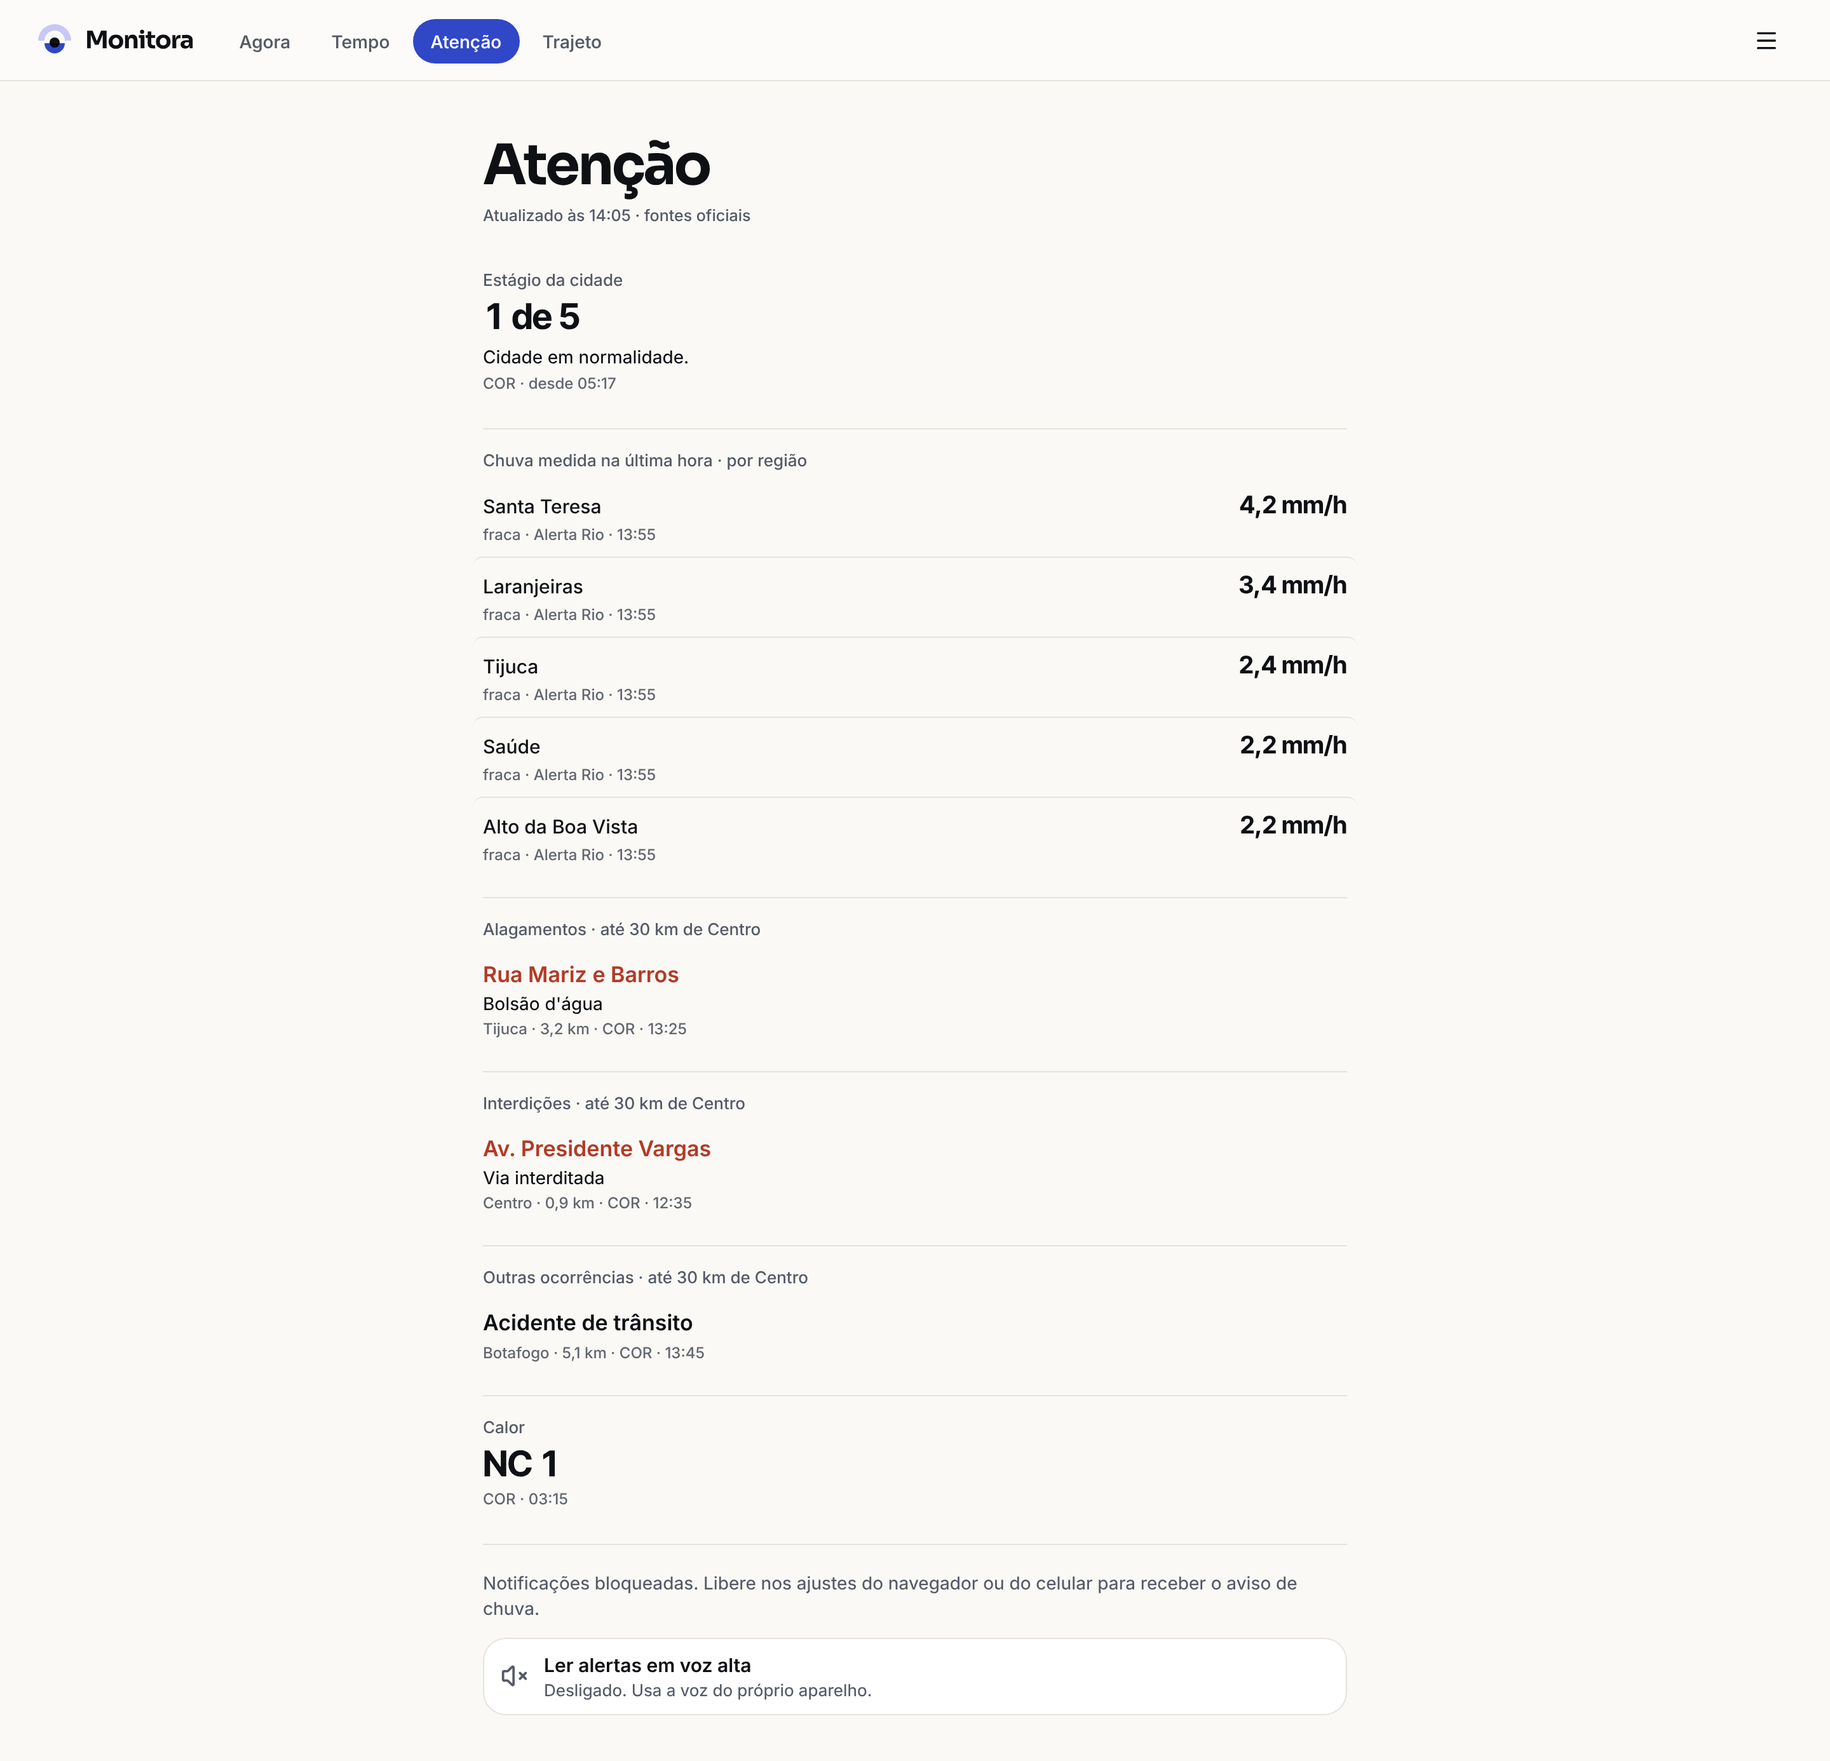
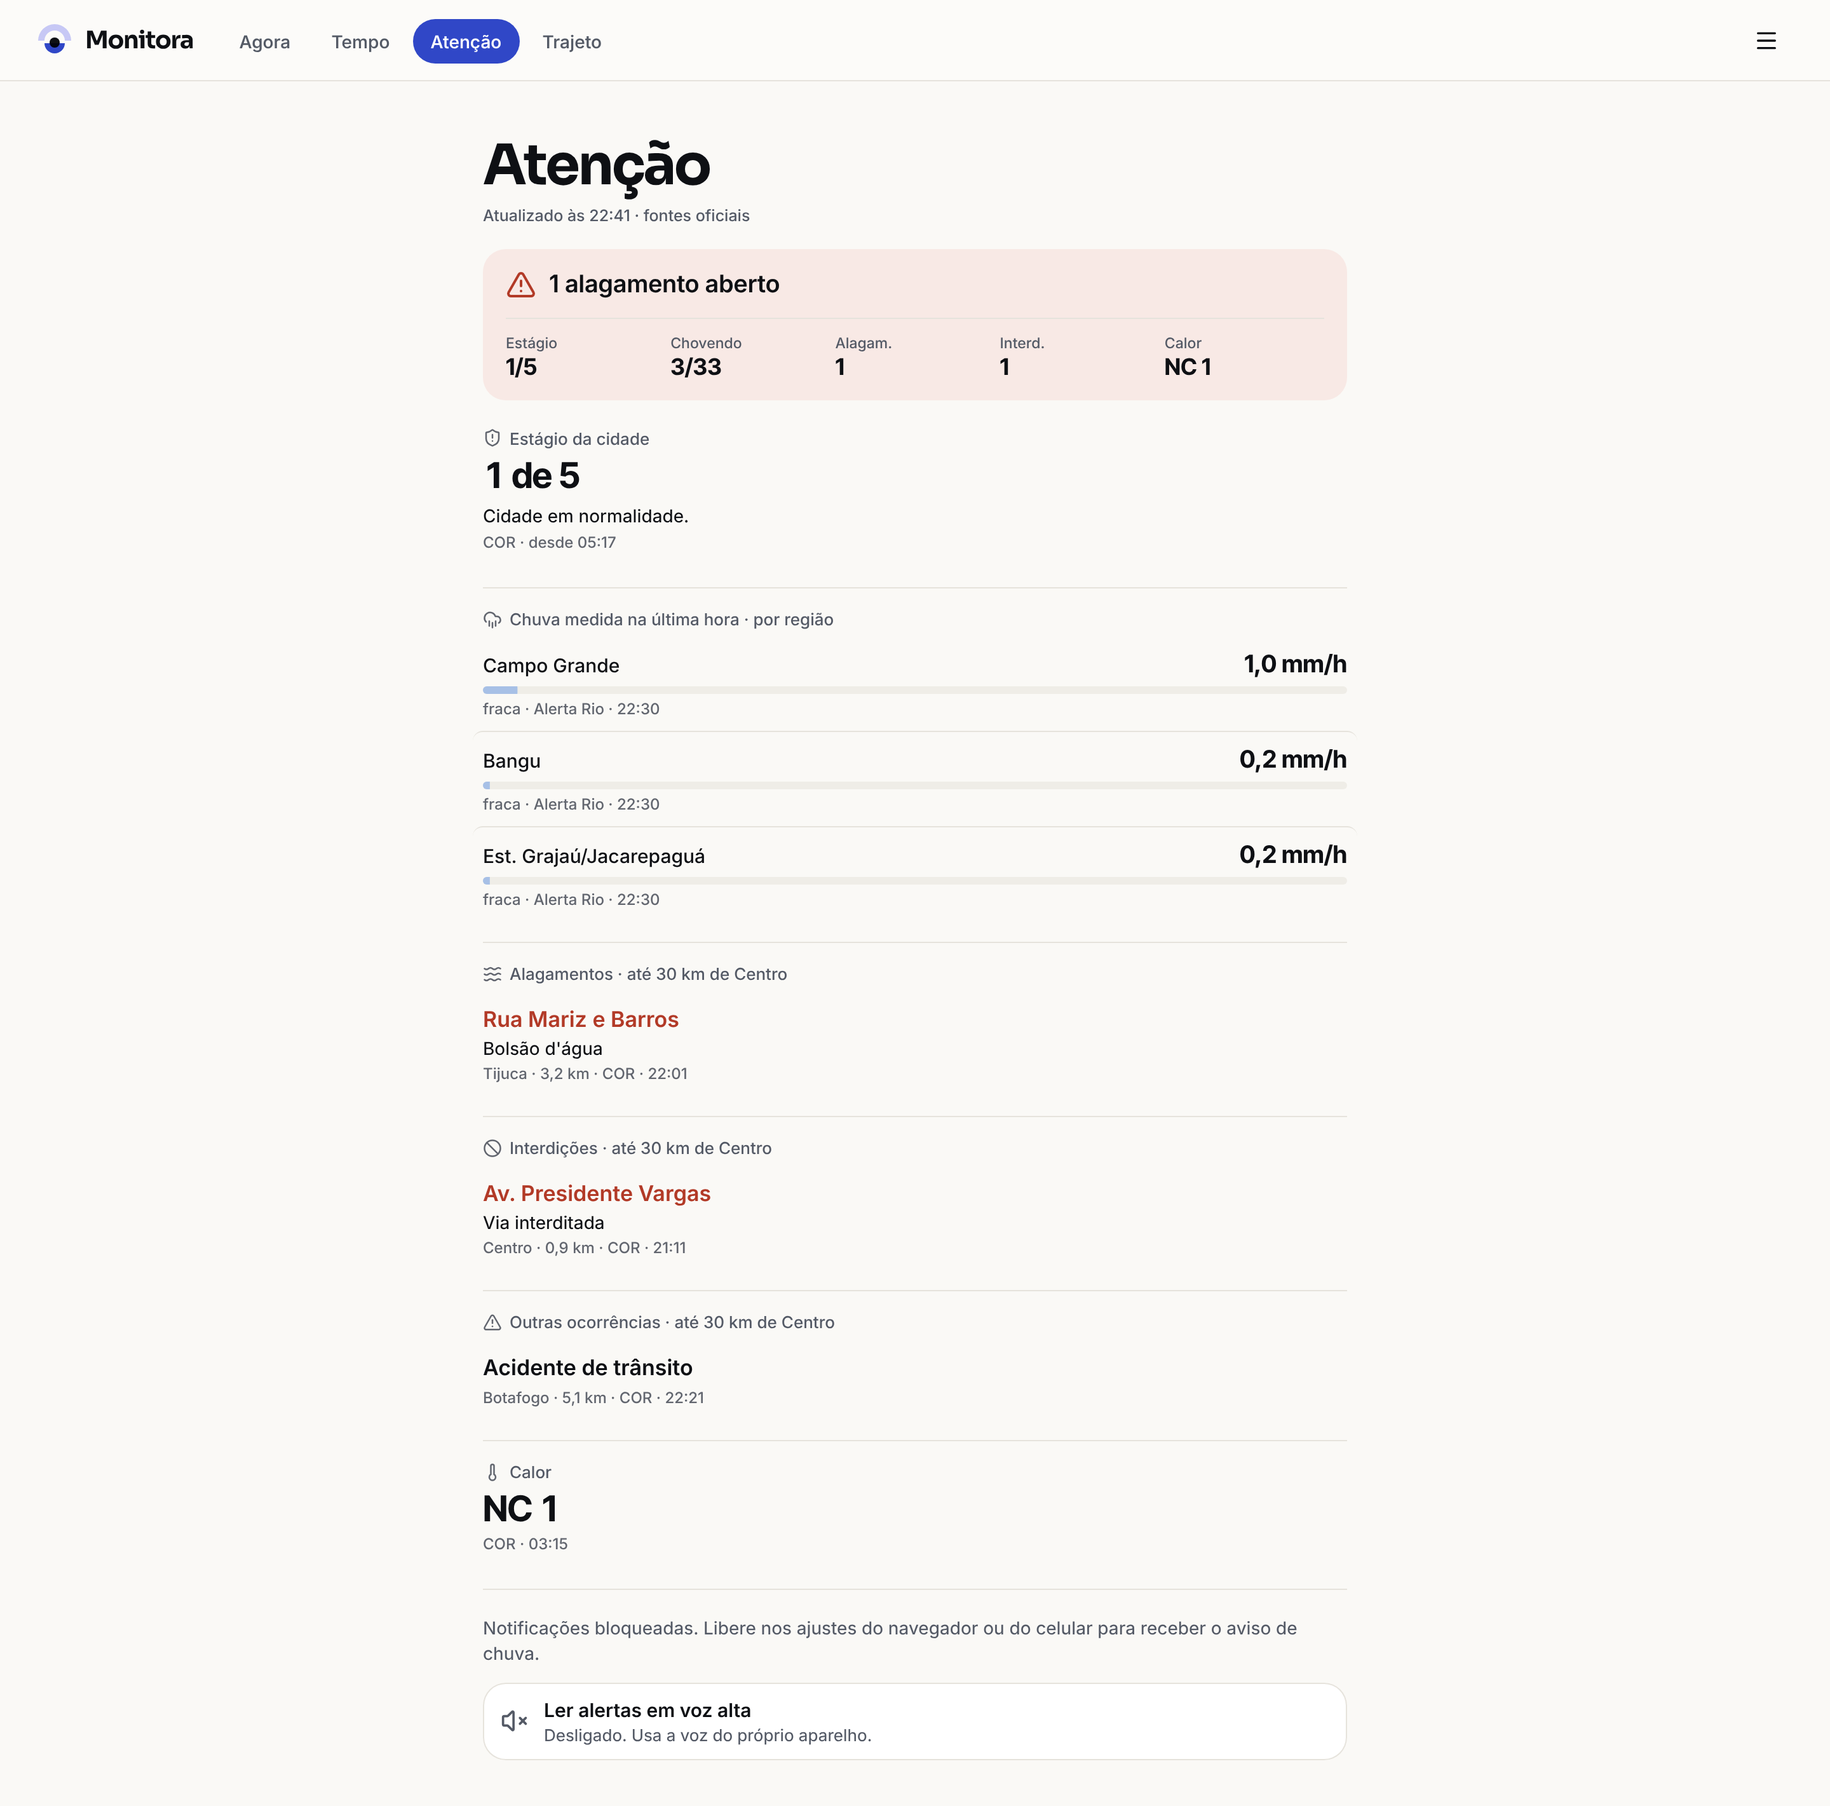
Trajeto: escolha visível BRT × ônibus municipais; Atenção: resumo do agora, ícones e barras de chuva
Claude-Session: https://claude.ai/code/session_0161rdvNizfiCsBbM8YzYtuJ

diff --git a/app/atencao/AtencaoApp.tsx b/app/atencao/AtencaoApp.tsx
@@ -5,7 +5,7 @@
  * Movimento: item novo entra com fundo destacado que some em 2 s; estágio ≥ 3 pisca uma vez. Nada em loop.
  */
 import { useCallback, useEffect, useState } from "react";
-import { Volume2, VolumeX } from "lucide-react";
+import { Ban, CircleCheck, CloudRain, ShieldAlert, Thermometer, TriangleAlert, Volume2, VolumeX, Waves } from "lucide-react";
 import AvisarChuva from "./AvisarChuva";
 import { ErrorState, Skel } from "../ui/estados";
 import { J, get, horaLocal, ler } from "../ui/util";
@@ -94,6 +94,7 @@ export default function AtencaoApp() {
       </header>
       {!d ? <div className="boletim">{[0, 1, 2, 3].map((i) => <Skel key={i} h={78} />)}</div> : (
         <div className="boletim cascata">
+          <Resumo d={d} ocorrs={ocorrs} />
           <Estagio c={d.cidade} />
           <Chuva ch={d.chuva} />
           {d.ocorr?.erro || d.ocorr?.disponivel === false ? (
@@ -103,7 +104,7 @@ export default function AtencaoApp() {
             if (!lista.length && !g.vazio) return null;
             return (
               <section key={g.cat} className="bl" aria-labelledby={`bl-${g.cat}`}>
-                <h2 className="bl-rot" id={`bl-${g.cat}`}>{g.rot} · até 30 km de {local?.nome ?? "você"}</h2>
+                <h2 className="bl-rot" id={`bl-${g.cat}`}>{g.cat === "alagamento" ? <Waves aria-hidden /> : g.cat === "interdicao" ? <Ban aria-hidden /> : <TriangleAlert aria-hidden />} {g.rot} · até 30 km de {local?.nome ?? "você"}</h2>
                 {!lista.length ? <p className="bl-val bl-ok">{g.vazio}</p> : (
                   <ul className="bl-lista">
                     {lista.slice(0, 8).map((o) => (
@@ -136,7 +137,7 @@ function Estagio({ c }: { c: J }) {
   const e = c?.observado?.estagio;
   return (
     <section className="bl" aria-labelledby="bl-es">
-      <h2 className="bl-rot" id="bl-es">Estágio da cidade</h2>
+      <h2 className="bl-rot" id="bl-es"><ShieldAlert aria-hidden /> Estágio da cidade</h2>
       {c?.erro || !e ? <p className="bl-nota">O COR não informou o estágio agora.</p> : (
         <>
           <p className={`bl-val num${e.nivel >= 2 ? " bl-alerta" : ""}${e.nivel >= 3 ? " pisca-uma" : ""}`}>{e.nivel} de 5</p>
@@ -156,16 +157,18 @@ function Chuva({ ch }: { ch: J }) {
   const chovendo = es.filter((e) => (e.mm?.h01 ?? 0) > 0).sort((a, b) => b.mm.h01 - a.mm.h01);
   return (
     <section className="bl" aria-labelledby="bl-ch">
-      <h2 className="bl-rot" id="bl-ch">Chuva medida na última hora · por região</h2>
+      <h2 className="bl-rot" id="bl-ch"><CloudRain aria-hidden /> Chuva medida na última hora · por região</h2>
       {chovendo.length === 0 ? (
         <><p className="bl-val bl-ok">Sem chuva</p><p className="bl-fonte">{es.length} pluviômetros · Alerta Rio · {hora(ch.atualizadoEm) ?? "—"}</p></>
       ) : (
         <ul className="bl-lista">
           {chovendo.slice(0, 5).map((e) => {
             const int = intensidadeChuva(e.mm.h01);
+            const escala = Math.max(25, chovendo[0].mm.h01); // barra cheia = chuva forte (25 mm/h) ou o maior valor
             return (
               <li key={e.id}>
                 <span className="bl-par"><span>{e.nome}</span><b className={`num${int === "forte" || int === "muito forte" ? " bl-alerta" : ""}`}>{mm(e.mm.h01)} mm/h</b></span>
+                <span className="bl-barra" aria-hidden><i className={int === "forte" || int === "muito forte" ? "forte" : undefined} style={{ transform: `scaleX(${Math.min(1, e.mm.h01 / escala)})` }} /></span>
                 <span className="bl-fonte">{int} · Alerta Rio · {hora(e.medidoEm) ?? "—"}</span>
               </li>
             );
@@ -180,10 +183,39 @@ function Calor({ c }: { c: J }) {
   const k = c?.observado?.calor;
   return (
     <section className="bl" aria-labelledby="bl-ca">
-      <h2 className="bl-rot" id="bl-ca">Calor</h2>
+      <h2 className="bl-rot" id="bl-ca"><Thermometer aria-hidden /> Calor</h2>
       {c?.erro || !k ? <p className="bl-nota">O COR não informou o nível de calor agora.</p> : (
         <><p className={`bl-val num${k.nivel >= 3 ? " bl-alerta" : ""}`}>NC {k.nivel}</p><p className="bl-fonte">COR{k.atualizadoEm ? ` · ${hora(k.atualizadoEm)}` : ""}</p></>
       )}
+    </section>
+  );
+}
+
+/** Resumo do agora: uma frase e o placar (estágio, chuva, alagamentos, interdições, calor). Cor só quando importa. */
+function Resumo({ d, ocorrs }: { d: J; ocorrs: J[] }) {
+  const e = d.cidade?.observado?.estagio, k = d.cidade?.observado?.calor;
+  const es: J[] = Array.isArray(d.chuva?.observado) ? d.chuva.observado : [];
+  const chovendo = es.filter((x) => (x.mm?.h01 ?? 0) > 0).sort((a, b) => b.mm.h01 - a.mm.h01);
+  const maior = chovendo[0], intMaior = maior ? intensidadeChuva(maior.mm.h01) : null;
+  const ocOk = !(d.ocorr?.erro || d.ocorr?.disponivel === false);
+  const alag = ocorrs.filter((o) => o.categoria === "alagamento").length, inter = ocorrs.filter((o) => o.categoria === "interdicao").length;
+  const nivel = (e?.nivel ?? 1) >= 3 || intMaior === "muito forte" ? "alerta"
+    : (e?.nivel ?? 1) >= 2 || intMaior === "forte" || intMaior === "moderada" || alag > 0 || (k?.nivel ?? 1) >= 3 ? "atencao" : "calmo";
+  const titulo = (e?.nivel ?? 1) >= 2 ? `Cidade em estágio ${e.nivel}`
+    : maior && intMaior !== "fraca" ? `Chuva ${intMaior} em ${maior.nome}`
+    : alag > 0 ? `${alag} ${alag === 1 ? "alagamento aberto" : "alagamentos abertos"}`
+    : chovendo.length ? "Chuva fraca em alguns pontos" : "Cidade sem alertas agora";
+  const Ic = nivel === "calmo" ? CircleCheck : nivel === "alerta" ? ShieldAlert : TriangleAlert;
+  return (
+    <section className={`bl-resumo nv-${nivel}`} aria-label="Resumo agora">
+      <div className="bl-resumo-cab"><Ic aria-hidden /><b>{titulo}</b></div>
+      <ul className="bl-placar">
+        <li><span>Estágio</span><b className="num">{e ? `${e.nivel}/5` : "—"}</b></li>
+        <li><span>Chovendo</span><b className="num">{es.length ? `${chovendo.length}/${es.length}` : "—"}</b></li>
+        <li><span>Alagam.</span><b className="num">{ocOk ? alag : "—"}</b></li>
+        <li><span>Interd.</span><b className="num">{ocOk ? inter : "—"}</b></li>
+        <li><span>Calor</span><b className="num">{k ? `NC ${k.nivel}` : "—"}</b></li>
+      </ul>
     </section>
   );
 }

diff --git a/app/mobilidade/MobilidadeApp.tsx b/app/mobilidade/MobilidadeApp.tsx
@@ -28,6 +28,7 @@ const eta = (min: number) => Math.max(1, Math.round(min));
 const M: Partial<{ ponto: Ponto | null; linha: string | null; nivel: 0 | 1 | 2; info: J | null; chegada: J | null; veiculos: J | null; veiculoSel: string | null;
   seguindo: boolean; trajeto: Trajeto[] | null; sentido: string | null; modoLinha: "BRT" | "BUS" | null; linhaSemPonto: boolean; salvo: boolean; trajetoDe: string; desce: string | null; paradasLinha: J | null }> = {};
 const K_MODO = "monitora:mob:modo";
+const K_TIPO = "monitora:mob:tipo"; // escolha visível BRT × Ônibus (abre a busca já no tipo certo)
 const K_FAVORITOS = "monitora:mob:favoritos";
 /** Trajeto do dia a dia salvo no aparelho: abre com um toque já com sentido e descida escolhidos. */
 type Favorito = { id: string; ponto: Ponto; linha: string; sentido: string | null; desce: string | null; modo: "BRT" | "BUS" | null };
@@ -58,6 +59,9 @@ export default function MobilidadeApp() {
   const [sentido, setSentidoS] = useState<string | null>(() => M.sentido ?? null);
   // modo da linha acompanhada (vem do catálogo, via busca/estação): BRT ou BUS; null = o servidor decide pelo catálogo
   const [modoLinha, setModoLinha] = useState<"BRT" | "BUS" | null>(() => M.modoLinha ?? null);
+  const [tipo, setTipoS] = useState<"brt" | "sppo">("brt");
+  useEffect(() => { setTipoS(ler<"brt" | "sppo">(K_TIPO, "brt")); }, []);
+  const setTipo = (t: "brt" | "sppo") => { setTipoS(t); gravar(K_TIPO, t); };
   const setSentido = (s: string | null) => { setSentidoS(s); gravar(K_SENTIDO, s); setVeiculoSel(null); };
   useEffect(() => { gravar(K_MODO, modoLinha); }, [modoLinha]);
   const [, tique] = useState(0);
@@ -344,6 +348,12 @@ export default function MobilidadeApp() {
         {(ponto || linha) && <button className="map-limpar" onClick={() => { setSeguindo(false); setVeiculoSelS(null); setDesce(null); limpar(); }} aria-label="Limpar pesquisa"><X /></button>}
         <button className={`map-fab${perto?.carregando ? " buscando" : ""}`} onClick={pertoDeMim} aria-label="Usar minha localização" aria-busy={!!perto?.carregando}><LocateFixed /></button>
       </div>
+      {!ponto && !linha && (
+        <div className="m-tipo" role="radiogroup" aria-label="Tipo de transporte">
+          <button role="radio" aria-checked={tipo === "brt"} className={tipo === "brt" ? "on" : undefined} onClick={() => setTipo("brt")}><TrainFront aria-hidden /> BRT</button>
+          <button role="radio" aria-checked={tipo === "sppo"} className={tipo === "sppo" ? "on" : undefined} onClick={() => setTipo("sppo")}><BusFront aria-hidden /> Ônibus municipais</button>
+        </div>
+      )}
 
       <BottomSheet resumo={ponto && linha ? 190 : 150} nivel={nivel} setNivel={setNivel} onAltura={setPadB} cabecalho={cabecalho}>
         {sel && <VeiculoCard v={sel} ponto={ponto} chegada={chegada} falta={falta} seguindo={seguindo} onSeguir={() => { setSeguindo((x) => !x); setNivel(0); }} onFechar={() => setVeiculoSel(null)} />}
@@ -377,8 +387,8 @@ export default function MobilidadeApp() {
         )}
         {!ponto && !linha && (
           <>
-            <button className="btn btn-primary" style={{ width: "100%" }} onClick={() => setBuscando(true)}><Search aria-hidden /> Pesquisar estação ou terminal</button>
-            {!perto && <button className="btn btn-ghost" style={{ width: "100%", marginTop: 10 }} onClick={pertoDeMim}><LocateFixed aria-hidden /> Estações perto de mim</button>}
+            <button className="btn btn-primary" style={{ width: "100%" }} onClick={() => setBuscando(true)}><Search aria-hidden /> {tipo === "brt" ? "Pesquisar estação ou terminal" : "Pesquisar parada ou linha de ônibus"}</button>
+            {!perto && <button className="btn btn-ghost" style={{ width: "100%", marginTop: 10 }} onClick={pertoDeMim}><LocateFixed aria-hidden /> {tipo === "brt" ? "Estações perto de mim" : "Paradas perto de mim"}</button>}
             {perto?.carregando && <div style={{ marginTop: 16, display: "grid", gap: 12 }}><Skel h={52} /><Skel h={52} /></div>}
             {perto?.erro && <p className="t-cap" role="alert">{perto.erro}</p>}
             {perto?.estacoes && (
@@ -469,7 +479,7 @@ export default function MobilidadeApp() {
         )}
       </BottomSheet>
 
-      {buscando && <TransitSearch onEscolher={escolherPonto} onLinha={escolherLinha} comLinhas={!(linha && !ponto)} onFechar={() => setBuscando(false)} />}
+      {buscando && <TransitSearch modoInicial={tipo} onModo={setTipo} onEscolher={escolherPonto} onLinha={escolherLinha} comLinhas={!(linha && !ponto)} onFechar={() => setBuscando(false)} />}
     </div>
   );
 }
@@ -655,9 +665,10 @@ function Recentes({ onEscolher }: { onEscolher: (p: Ponto) => void }) {
 }
 
 /** Busca especializada: BRT consulta SÓ o catálogo de estações/terminais; Ônibus consulta SÓ a camada de paradas. */
-function TransitSearch({ onEscolher, onLinha, comLinhas, onFechar }: { onEscolher: (p: Ponto) => void; onLinha: (l: string, modo: "BRT" | "BUS") => void; comLinhas: boolean; onFechar: () => void }) {
+function TransitSearch({ modoInicial = "brt", onModo, onEscolher, onLinha, comLinhas, onFechar }: { modoInicial?: "brt" | "sppo"; onModo?: (m: "brt" | "sppo") => void; onEscolher: (p: Ponto) => void; onLinha: (l: string, modo: "BRT" | "BUS") => void; comLinhas: boolean; onFechar: () => void }) {
   const [q, setQ] = useState("");
-  const [modo, setModo] = useState<"brt" | "sppo">("brt");
+  const [modo, setModoS] = useState<"brt" | "sppo">(modoInicial);
+  const setModo = (m: "brt" | "sppo") => { setModoS(m); onModo?.(m); };
   const [res, setRes] = useState<J | null>(null);
   const ctrl = useRef<AbortController | null>(null);
   useEffect(() => {

diff --git a/app/globals.css b/app/globals.css
@@ -1014,3 +1014,26 @@ button { cursor: pointer; background: none; border: 0; padding: 0; }
 .gh-p svg { width: 11px !important; height: 11px !important; }
 .gh-agua { opacity: .85; border-radius: 0; }
 .rt-horas .gh-cartao { width: 50px; min-height: 100px; }
+/* Trajeto: escolha visível entre BRT e ônibus municipais (abaixo da busca) */
+.m-tipo { position: absolute; z-index: var(--z-overlay); top: calc(var(--safe-t) + 70px); left: 12px; display: flex; gap: 4px; padding: 4px; border-radius: 999px;
+  background: color-mix(in srgb, var(--surface) 94%, transparent); box-shadow: inset 0 0 0 1px var(--hairline), var(--shadow-ambient); }
+.m-tipo button { display: inline-flex; align-items: center; gap: 6px; height: 36px; padding: 0 14px; border-radius: 999px; font: 600 14px var(--font-ui); color: var(--text-2); }
+.m-tipo button svg { width: 16px; height: 16px; }
+.m-tipo button.on { background: var(--accent); color: var(--on-accent); }
+@media (min-width: 960px) { .m-tipo { top: 74px; left: 16px; } }
+/* Atenção mais viva: resumo do agora, ícones nas seções e barras de chuva (dado, não ornamento; nada em loop) */
+.bl-rot { display: flex; align-items: center; gap: 6px; }
+.bl-rot svg { width: 15px; height: 15px; color: var(--text-3); flex: none; }
+.bl-resumo { margin-bottom: 6px; padding: 16px 18px; border-radius: var(--r-md); background: var(--surface); box-shadow: inset 0 0 0 1px var(--hairline); }
+.bl-resumo-cab { display: flex; align-items: center; gap: 10px; }
+.bl-resumo-cab svg { width: 24px; height: 24px; flex: none; color: var(--live); }
+.bl-resumo-cab b { font: 600 19px/1.25 var(--font-ui); letter-spacing: -.01em; }
+.bl-resumo.nv-atencao, .bl-resumo.nv-alerta { background: var(--alert-bg); box-shadow: none; }
+.bl-resumo.nv-atencao svg, .bl-resumo.nv-alerta svg, .bl-resumo.nv-alerta b { color: var(--alert-text); }
+.bl-placar { list-style: none; margin: 14px 0 0; padding: 12px 0 0; display: grid; grid-template-columns: repeat(5, 1fr); gap: 4px; border-top: 1px solid var(--hairline); }
+.bl-placar li { display: grid; gap: 2px; min-width: 0; }
+.bl-placar span { font: 500 11.5px var(--font-ui); color: var(--text-2); white-space: nowrap; overflow: hidden; text-overflow: ellipsis; }
+.bl-placar b { font: 700 18px/1.1 var(--font-num); }
+.bl-barra { display: block; height: 6px; margin: 6px 0 2px; border-radius: 3px; background: var(--surface-2); overflow: hidden; }
+.bl-barra i { display: block; height: 100%; border-radius: 3px; background: var(--rain); transform-origin: left; filter: saturate(1.6) brightness(.9); }
+.bl-barra i.forte { background: var(--alert); filter: none; }
